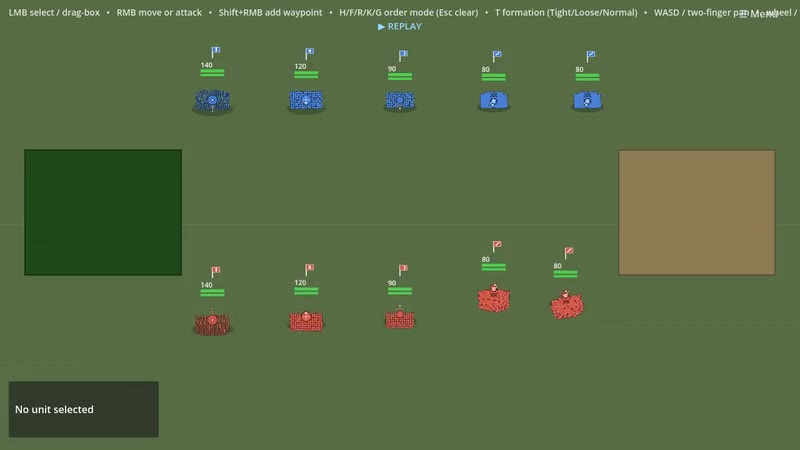
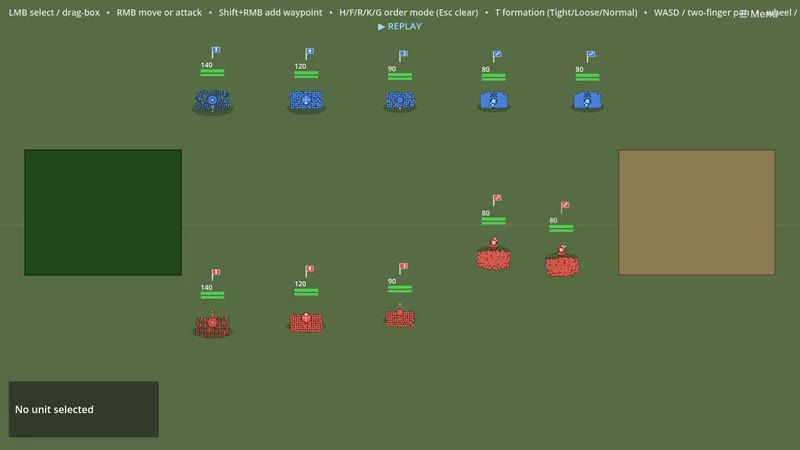
Deploying to gh-pages from @ Lacaedemon/sparta@af73c4ea9bc978e11a315f81697d88e9338d7787 🚀

diff --git a/tactics.html b/tactics.html
@@ -434,6 +434,7 @@ ul.task-list li input[type="checkbox"] {
   <li><a href="#rank-cycling-trained-units" id="toc-rank-cycling-trained-units" class="nav-link" data-scroll-target="#rank-cycling-trained-units">Rank cycling (trained units)</a></li>
   <li><a href="#the-unit-triangle-rock-paper-scissors" id="toc-the-unit-triangle-rock-paper-scissors" class="nav-link" data-scroll-target="#the-unit-triangle-rock-paper-scissors">The unit triangle (rock-paper-scissors)</a></li>
   <li><a href="#weapon-reach" id="toc-weapon-reach" class="nav-link" data-scroll-target="#weapon-reach">Weapon reach</a></li>
+  <li><a href="#movement-speed" id="toc-movement-speed" class="nav-link" data-scroll-target="#movement-speed">Movement speed</a></li>
   <li><a href="#order-stances" id="toc-order-stances" class="nav-link" data-scroll-target="#order-stances">Order stances</a></li>
   <li><a href="#terrain" id="toc-terrain" class="nav-link" data-scroll-target="#terrain">Terrain</a></li>
   <li><a href="#order-response-delay" id="toc-order-response-delay" class="nav-link" data-scroll-target="#order-response-delay">Order-response delay</a></li>
@@ -526,7 +527,7 @@ ul.task-list li input[type="checkbox"] {
 </section>
 <section id="cavalry" class="level3 g-col-12 g-col-md-4">
 <h3 class="anchored" data-anchor-id="cavalry">🐎 Cavalry</h3>
-<p><strong>Fast</strong>, with a <strong>charge bonus</strong>. Devastating into a flank or rear — but blunted when it charges into braced spears.</p>
+<p><strong>Fast</strong> — they charge at a real gallop (~8.5 m/s, far quicker than any foot unit’s advance) — with a <strong>charge bonus</strong> that grows with closing speed. Devastating into a flank or rear, but blunted when it charges into braced spears.</p>
 </section>
 <section id="spearmen" class="level3 g-col-12 g-col-md-4">
 <h3 class="anchored" data-anchor-id="spearmen">🛡️ Spearmen</h3>
@@ -544,6 +545,15 @@ ul.task-list li input[type="checkbox"] {
 <li><strong>Archers</strong> carry only a short sidearm (~0.6 m); they’re meant to shoot, not duel in the press.</li>
 </ul>
 <p>So a spear line meeting a sword line head-on gets free hits during the approach — another reason to lead with spearmen and let the shorter weapons pin and flank. (The opening-strike edge is on the <em>approach</em>; once both sides are locked together they both reach. Sustained spacing — a spear actively holding a swordsman at bay — is a planned follow-up.)</p>
+</section>
+<section id="movement-speed" class="level2">
+<h2 class="anchored" data-anchor-id="movement-speed">Movement speed</h2>
+<p>Units move at <strong>realistic real-world speeds</strong>, measured in metres per second:</p>
+<ul>
+<li><strong>Foot</strong> advances to contact at a brisk pace — heavy <strong>spearmen</strong> slowest (~2.2 m/s), <strong>infantry</strong> a touch quicker (~2.6 m/s), light <strong>archers</strong> quickest of the foot (~3.0 m/s).</li>
+<li><strong>Cavalry</strong> charge at a <strong>gallop</strong> (~8.5 m/s) — roughly three times any foot unit’s pace.</li>
+</ul>
+<p>That gap is a lever: cavalry cross the field and reach an exposed flank far sooner than infantry can re-form to face them, so commit horse decisively and time your foot to be where the charge lands. (The faster the gallop at the moment of contact, the bigger the charge bonus — so a clean run-up hits harder than a standing start.)</p>
 </section>
 <section id="order-stances" class="level2">
 <h2 class="anchored" data-anchor-id="order-stances">Order stances</h2>